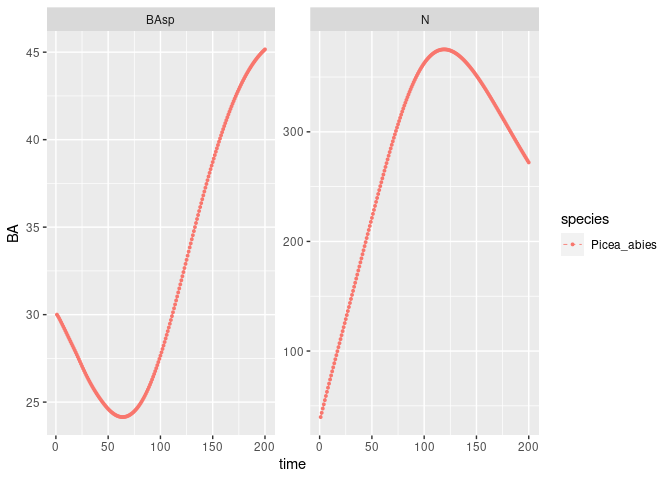
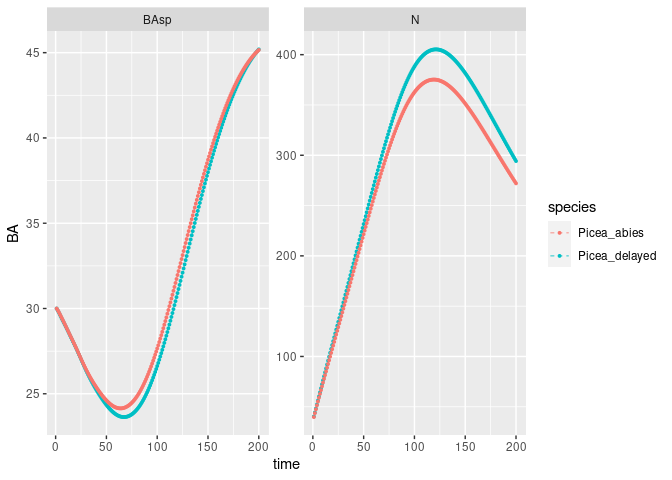
minor typo fix

diff --git a/vignettes/matreex.md b/vignettes/matreex.md
@@ -62,7 +62,7 @@ Picea_ipm <- make_IPM(
 #> GL integration occur on 32 cells
 #> midbin integration occur on 25 cells
 #> Loop done.
-#> Time difference of 35.9 secs
+#> Time difference of 33.6 secs
 ```
 
 Once the IPM is integrated on a BA range, we can use it to build a
@@ -134,7 +134,7 @@ Picea_sim <- sim_deter_forest(
 #> Starting while loop. Maximum t = 300
 #> Simulation ended after time 244
 #> BA stabilized at 45.30 with diff of 0.96 at time 244
-#> Time difference of 1.09 secs
+#> Time difference of 1.16 secs
 ```
 
 The output of a simulation is a data.frame in long format (according to
@@ -229,7 +229,7 @@ Picea_sim_k <- sim_deter_forest(
 #> Starting while loop. Maximum t = 300
 #> Simulation ended after time 282
 #> BA stabilized at 34.10 with diff of 0.96 at time 282
-#> Time difference of 1.29 secs
+#> Time difference of 1.35 secs
 
 Picea_sim_k  %>%
     dplyr::filter(var == "BAsp", ! equil) %>%
@@ -258,7 +258,7 @@ one class to another until they enter the “real” IPM.
 ``` r
 n_delay <- 5
 Picea_sp_d5 <- delay(Picea_sp, n_delay)
-Picea_sp_d5$info["species"] <- "Picea_abies_delay" # We rename the species for easier plot.
+Picea_sp_d5$info["species"] <- "Picea_delayed" # We rename the species for easier plot.
 Picea_sp_d5$init_pop <- def_initBA(30)
 ```
 
@@ -277,9 +277,7 @@ Picea_sim_d5 <- sim_deter_forest(
 #> Starting while loop. Maximum t = 200
 #> Simulation ended after time 200
 #> BA stabilized at 45.19 with diff of 7.20 at time 200
-#> Time difference of 0.9 secs
-#> Warning in data.frame(species = sub(pattern, "\\1", var, perl = TRUE), var = sub(pattern, : NAs
-#> introduits lors de la conversion automatique
+#> Time difference of 0.932 secs
 ```
 
 Equilibrium BA should be really close ($\Delta_{BA} < 1$). N is expected
@@ -328,7 +326,7 @@ Abies_ipm <- make_IPM(
 #> GL integration occur on 24 cells
 #> midbin integration occur on 25 cells
 #> Loop done.
-#> Time difference of 23.2 secs
+#> Time difference of 23.6 secs
 Abies_sp <- species(IPM = Abies_ipm, init_pop = def_initBA(35))
 ```
 
@@ -349,7 +347,7 @@ Picea_Abies_sim <- sim_deter_forest(
 #> time 500 | BA diff : 0.08
 #> Simulation ended after time 500
 #> BA stabilized at 50.79 with diff of 0.08 at time 500
-#> Time difference of 3.7 secs
+#> Time difference of 3.76 secs
 
 Picea_Abies_sim  %>%
     dplyr::filter(var == "BAsp", ! equil) %>%

diff --git a/vignettes/Harvesting.md b/vignettes/Harvesting.md
@@ -50,7 +50,7 @@ Picea_ipm <- make_IPM(
 #> GL integration occur on 32 cells
 #> midbin integration occur on 25 cells
 #> Loop done.
-#> Time difference of 26.9 secs
+#> Time difference of 28.2 secs
 ```
 
 Harvesting rules have different scales : some rules are defined for each
@@ -129,7 +129,7 @@ Picea_sim <- sim_deter_forest(
 #> Starting while loop. Maximum t = 200
 #> Simulation ended after time 200
 #> BA stabilized at 45.16 with diff of 0.69 at time 200
-#> Time difference of 0.861 secs
+#> Time difference of 1 secs
 ```
 
 Once the simulation is done, we can extract the basal area and the
@@ -173,7 +173,7 @@ Picea_sim_f20 <- sim_deter_forest(
 #> Starting while loop. Maximum t = 50
 #> Simulation ended after time 50
 #> BA stabilized at 30.14 with diff of 0.02 at time 50
-#> Time difference of 0.282 secs
+#> Time difference of 0.284 secs
 Picea_sim_f20  %>%
     dplyr::filter(var %in% c("BAsp", "N", "H"), ! equil) %>%
     ggplot(aes(x = time, y = value)) +
@@ -214,7 +214,7 @@ Picea_sim_f20 <- sim_deter_forest(
 #> Starting while loop. Maximum t = 250
 #> Simulation ended after time 250
 #> BA stabilized at 25.86 with diff of 5.25 at time 250
-#> Time difference of 1.1 secs
+#> Time difference of 1.16 secs
 Picea_sim_f20  %>%
     dplyr::filter(var %in% c("BAsp", "N", "H"), ! equil) %>%
     ggplot(aes(x = time, y = value)) +
@@ -263,13 +263,13 @@ which harvest probability is high and constant.
 
 We therefore considered the harvesting function (which associates a dbh
 to an harvesting probability) $$
-h(d) = \left\{
+h(d) = \left\lbrace
  \begin{array}{ll}
-    0 & \text{if } d<d_{th} \\
+    0 & \text{if } d < d_{th} \\
     h_{max} (\frac{d - d_{th}}{d_{ha} - d_{th}})^{k} & \text{if } d_{th}\leq d < d_{ha} \\
-    h_{max} & \text{if } d>d_{ha} \\
+    h_{max} & \text{if } d \geq d_{ha} 
  \end{array}
- \right\}
+ \right\rbrace
 $$
 
 The parameter $h_{max}$ can be tuned so that the probability for a large
@@ -407,7 +407,7 @@ Picea_sim_f20 <- sim_deter_forest(
 #> Starting while loop. Maximum t = 200
 #> Simulation ended after time 200
 #> BA stabilized at 31.86 with diff of 2.71 at time 200
-#> Time difference of 0.972 secs
+#> Time difference of 0.966 secs
 Picea_sim_f20  %>%
     dplyr::filter(var %in% c("BAsp", "N", "H"), ! equil) %>%
     ggplot(aes(x = time, y = value)) +
